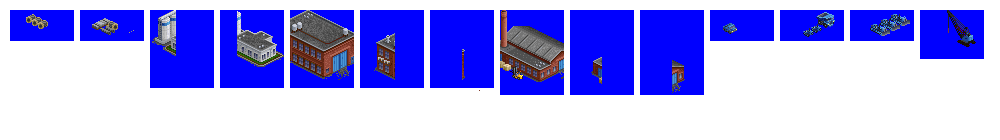
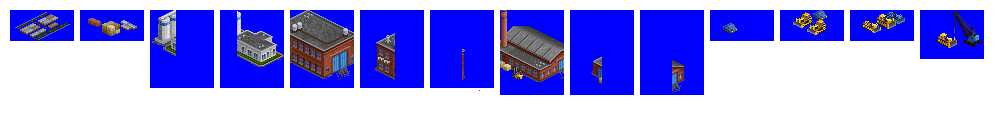
Change: Tracked Machine Factory is done enough for v5

Changed region(s): [[0.775, 0.0857, 0.992, 0.3429], [0.0, 0.0857, 0.155, 0.2857]]

diff --git a/src/industries/tracked_machine_factory.py b/src/industries/tracked_machine_factory.py
@@ -21,7 +21,7 @@ industry = IndustrySecondary(
     name="string(STR_IND_TRACKED_MACHINE_FACTORY)",
     nearby_station_name="string(STR_STATION_TRACKED_MACHINE_FACTORY)",
     fund_cost_multiplier="145",
-    sprites_complete=False,
+    sprites_complete=True,
 )
 
 industry.enable_in_economy(
@@ -196,7 +196,7 @@ industry.add_spritelayout(
     ground_sprite=spriteset_ground,
     ground_overlay=spriteset_ground_overlay,
     building_sprites=[spriteset_13],
-    fences=["nw", "ne", "se", "sw"],
+    fences=[],
 )
 industry.add_spritelayout(
     id="tracked_machine_factory_spritelayout_14",
@@ -204,35 +204,12 @@ industry.add_spritelayout(
     ground_sprite=spriteset_ground,
     ground_overlay=spriteset_ground_overlay,
     building_sprites=[],
-    fences=["nw", "ne", "se", "sw"],
+    fences=[],
 )
 
 
 industry.add_industry_layout(
     id="tracked_machine_factory_industry_layout_1",
-    layout=[
-        (0, 0, "tracked_machine_factory_spritelayout_2"),
-        (0, 1, "tracked_machine_factory_spritelayout_7"),
-        (0, 2, "tracked_machine_factory_spritelayout_14"),
-        (1, 0, "tracked_machine_factory_spritelayout_6"),
-        (1, 1, "tracked_machine_factory_spritelayout_5"),
-        (1, 2, "tracked_machine_factory_spritelayout_13"),
-        (2, 0, "tracked_machine_factory_spritelayout_2"),
-        (2, 1, "tracked_machine_factory_spritelayout_10"),
-        (2, 2, "tracked_machine_factory_spritelayout_12"),
-        (3, 0, "tracked_machine_factory_spritelayout_9"),
-        (3, 1, "tracked_machine_factory_spritelayout_8"),
-        (3, 2, "tracked_machine_factory_spritelayout_11"),
-        (4, 0, "tracked_machine_factory_spritelayout_3"),
-        (4, 1, "tracked_machine_factory_spritelayout_4"),
-        (4, 2, "tracked_machine_factory_spritelayout_13"),
-        (5, 0, "tracked_machine_factory_spritelayout_2"),
-        (5, 1, "tracked_machine_factory_spritelayout_1"),
-        (5, 2, "tracked_machine_factory_spritelayout_2"),
-    ],
-)
-industry.add_industry_layout(
-    id="tracked_machine_factory_industry_layout_2",
     layout=[
         (0, 0, "tracked_machine_factory_spritelayout_1"),
         (0, 1, "tracked_machine_factory_spritelayout_7"),
@@ -245,87 +222,14 @@ industry.add_industry_layout(
         (1, 3, "tracked_machine_factory_spritelayout_5"),
         (1, 4, "tracked_machine_factory_spritelayout_11"),
         (2, 0, "tracked_machine_factory_spritelayout_1"),
-        (2, 1, "tracked_machine_factory_spritelayout_10"),
-        (2, 2, "tracked_machine_factory_spritelayout_14"),
+        (2, 1, "tracked_machine_factory_spritelayout_7"),
+        (2, 2, "tracked_machine_factory_spritelayout_13"),
         (2, 3, "tracked_machine_factory_spritelayout_3"),
         (2, 4, "tracked_machine_factory_spritelayout_4"),
-        (3, 0, "tracked_machine_factory_spritelayout_9"),
-        (3, 1, "tracked_machine_factory_spritelayout_8"),
-        (3, 2, "tracked_machine_factory_spritelayout_13"),
-        (3, 3, "tracked_machine_factory_spritelayout_2"),
-        (3, 4, "tracked_machine_factory_spritelayout_1"),
-    ],
-)
-industry.add_industry_layout(
-    id="tracked_machine_factory_industry_layout_3",
-    layout=[
-        (0, 0, "tracked_machine_factory_spritelayout_1"),
-        (0, 1, "tracked_machine_factory_spritelayout_7"),
-        (0, 2, "tracked_machine_factory_spritelayout_1"),
-        (0, 3, "tracked_machine_factory_spritelayout_7"),
-        (0, 4, "tracked_machine_factory_spritelayout_14"),
-        (1, 0, "tracked_machine_factory_spritelayout_6"),
-        (1, 1, "tracked_machine_factory_spritelayout_5"),
-        (1, 2, "tracked_machine_factory_spritelayout_6"),
-        (1, 3, "tracked_machine_factory_spritelayout_5"),
-        (1, 4, "tracked_machine_factory_spritelayout_12"),
-        (2, 0, "tracked_machine_factory_spritelayout_3"),
-        (2, 1, "tracked_machine_factory_spritelayout_4"),
-        (2, 2, "tracked_machine_factory_spritelayout_1"),
-        (2, 3, "tracked_machine_factory_spritelayout_10"),
-        (2, 4, "tracked_machine_factory_spritelayout_11"),
-        (3, 0, "tracked_machine_factory_spritelayout_2"),
-        (3, 1, "tracked_machine_factory_spritelayout_1"),
-        (3, 2, "tracked_machine_factory_spritelayout_9"),
-        (3, 3, "tracked_machine_factory_spritelayout_8"),
-        (3, 4, "tracked_machine_factory_spritelayout_13"),
-    ],
-)
-industry.add_industry_layout(
-    id="tracked_machine_factory_industry_layout_4",
-    layout=[
-        (0, 0, "tracked_machine_factory_spritelayout_1"),
-        (0, 1, "tracked_machine_factory_spritelayout_7"),
-        (0, 2, "tracked_machine_factory_spritelayout_13"),
-        (0, 3, "tracked_machine_factory_spritelayout_3"),
-        (0, 4, "tracked_machine_factory_spritelayout_4"),
-        (1, 0, "tracked_machine_factory_spritelayout_6"),
-        (1, 1, "tracked_machine_factory_spritelayout_5"),
-        (1, 2, "tracked_machine_factory_spritelayout_2"),
-        (1, 3, "tracked_machine_factory_spritelayout_1"),
-        (1, 4, "tracked_machine_factory_spritelayout_12"),
-        (2, 0, "tracked_machine_factory_spritelayout_1"),
-        (2, 1, "tracked_machine_factory_spritelayout_7"),
-        (2, 2, "tracked_machine_factory_spritelayout_1"),
-        (2, 3, "tracked_machine_factory_spritelayout_10"),
-        (2, 4, "tracked_machine_factory_spritelayout_11"),
         (3, 0, "tracked_machine_factory_spritelayout_6"),
         (3, 1, "tracked_machine_factory_spritelayout_5"),
-        (3, 2, "tracked_machine_factory_spritelayout_9"),
-        (3, 3, "tracked_machine_factory_spritelayout_8"),
-        (3, 4, "tracked_machine_factory_spritelayout_13"),
-    ],
-)
-industry.add_industry_layout(
-    id="tracked_machine_factory_industry_layout_5",
-    layout=[
-        (0, 0, "tracked_machine_factory_spritelayout_3"),
-        (0, 1, "tracked_machine_factory_spritelayout_4"),
-        (0, 2, "tracked_machine_factory_spritelayout_1"),
-        (0, 3, "tracked_machine_factory_spritelayout_7"),
-        (0, 4, "tracked_machine_factory_spritelayout_1"),
-        (0, 5, "tracked_machine_factory_spritelayout_10"),
-        (1, 0, "tracked_machine_factory_spritelayout_12"),
-        (1, 1, "tracked_machine_factory_spritelayout_11"),
-        (1, 2, "tracked_machine_factory_spritelayout_6"),
-        (1, 3, "tracked_machine_factory_spritelayout_5"),
-        (1, 4, "tracked_machine_factory_spritelayout_9"),
-        (1, 5, "tracked_machine_factory_spritelayout_8"),
-        (2, 0, "tracked_machine_factory_spritelayout_13"),
-        (2, 1, "tracked_machine_factory_spritelayout_13"),
-        (2, 2, "tracked_machine_factory_spritelayout_14"),
-        (2, 3, "tracked_machine_factory_spritelayout_2"),
-        (2, 4, "tracked_machine_factory_spritelayout_1"),
-        (2, 5, "tracked_machine_factory_spritelayout_1"),
+        (3, 2, "tracked_machine_factory_spritelayout_14"),
+        (3, 3, "tracked_machine_factory_spritelayout_2"),
+        (3, 4, "tracked_machine_factory_spritelayout_1"),
     ],
 )
